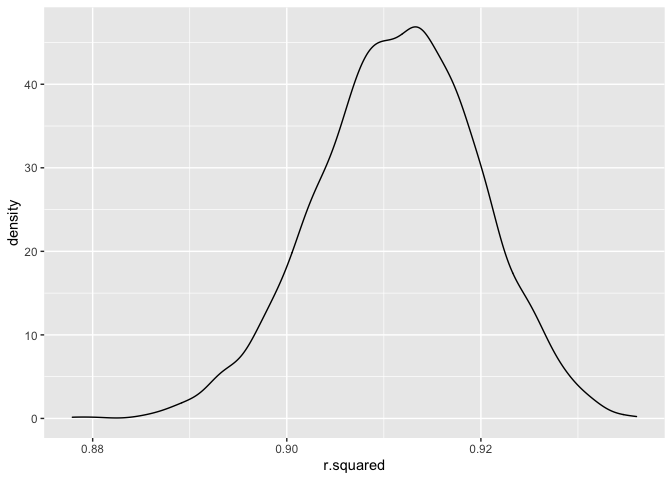
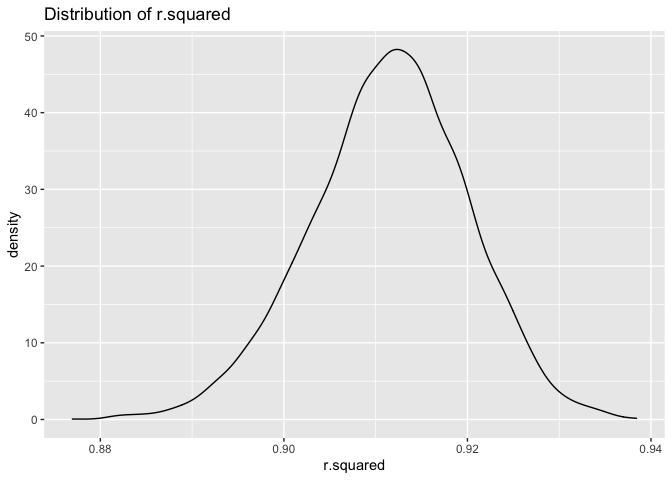
problem 2

diff --git a/P8105_HW6_YZ4181.md b/P8105_HW6_YZ4181.md
@@ -219,16 +219,89 @@ weather_df =
 #### Bootstrap sample
 
 ``` r
-boots_straps = weather_df %>% modelr::bootstrap(n = 5000) %>% 
+# compute r.squared
+boots_straps = weather_df %>% modelr::bootstrap(n = 5000)
+
+r.squared_result = boots_straps %>% 
   mutate(
     models = map(.x = strap, ~lm(tmax ~ tmin, data = .x)),
-    results1 = map(models, broom::glance)
+    results = map(models, broom::glance)
   ) %>% 
   select(-strap, -models) %>% 
-  unnest(results1) %>% 
+  unnest(results) %>% 
   select(.id, r.squared)
-  
-boots_straps %>% ggplot(aes(x = r.squared)) + geom_density()
+
+#plot the distribution of r.squared
+r.squared_result %>% 
+  ggplot(aes(x = r.squared))+
+  geom_density() +
+  labs(
+    title = "Distribution of r.squared"
+  )
 ```
 
 ![](P8105_HW6_YZ4181_files/figure-gfm/unnamed-chunk-6-1.png)<!-- -->
+
+``` r
+# compute log(B0 * B1)
+log_result = boots_straps %>% 
+  mutate(
+    models = map(.x = strap, ~lm(tmax ~ tmin, data = .x)),
+    results = map(models, broom::tidy)
+  ) %>% 
+  select(-strap, -models) %>% 
+  unnest(results) %>% 
+  select(.id, term, estimate)  %>% 
+  group_by(.id) %>% 
+  pivot_wider(
+    names_from = "term",
+    values_from = "estimate") %>% 
+  janitor::clean_names() %>% 
+  mutate(
+    estimate = log(intercept * tmin)) %>% 
+  select(-intercept, -tmin)
+
+# Plot the distribution
+log_result %>% ggplot(aes(x = estimate)) + 
+  geom_density() +
+  labs(title = "Distribution of log(Bo*B1)",
+       x = "log(Bo*B1)")
+```
+
+![](P8105_HW6_YZ4181_files/figure-gfm/unnamed-chunk-6-2.png)<!-- -->
+
+#### Construct 95%CI for both estimates
+
+``` r
+r.squared_result %>% 
+  summarize(
+    ci_lower = quantile(r.squared, 0.025),
+    ci_upper = quantile(r.squared, 0.975)) %>% 
+  knitr::kable()
+```
+
+| ci\_lower | ci\_upper |
+|----------:|----------:|
+| 0.8936626 | 0.9271964 |
+
+``` r
+log_result %>% 
+  summarize(
+    ci_lower = quantile(estimate, 0.025),
+    ci_upper = quantile(estimate, 0.975))
+```
+
+    ## # A tibble: 5,000 × 3
+    ##    id    ci_lower ci_upper
+    ##    <chr>    <dbl>    <dbl>
+    ##  1 0001      2.01     2.01
+    ##  2 0002      2.03     2.03
+    ##  3 0003      1.96     1.96
+    ##  4 0004      2.03     2.03
+    ##  5 0005      2.02     2.02
+    ##  6 0006      2.02     2.02
+    ##  7 0007      2.03     2.03
+    ##  8 0008      2.00     2.00
+    ##  9 0009      2.00     2.00
+    ## 10 0010      2.00     2.00
+    ## # … with 4,990 more rows
